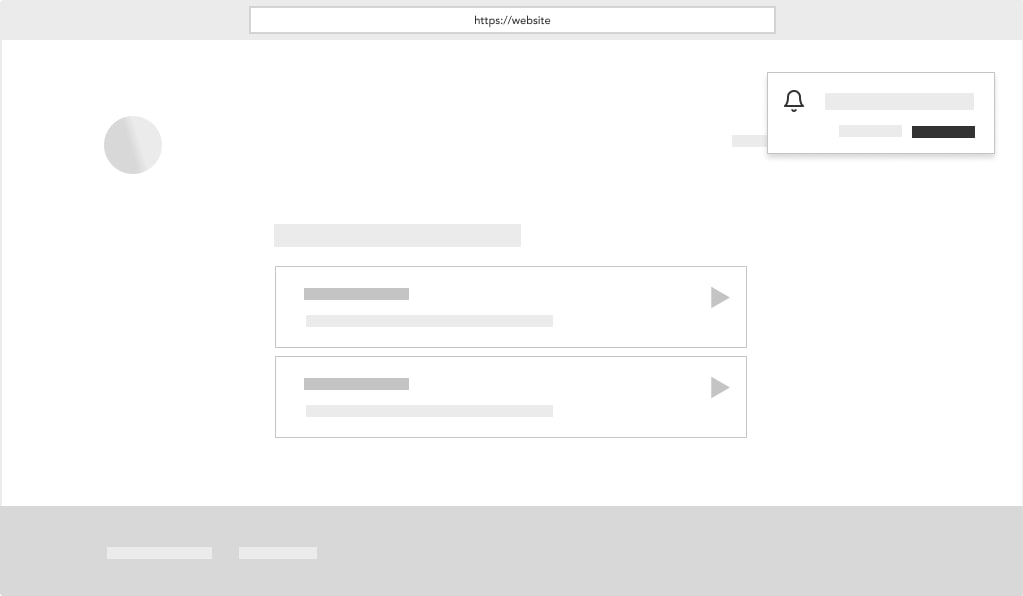
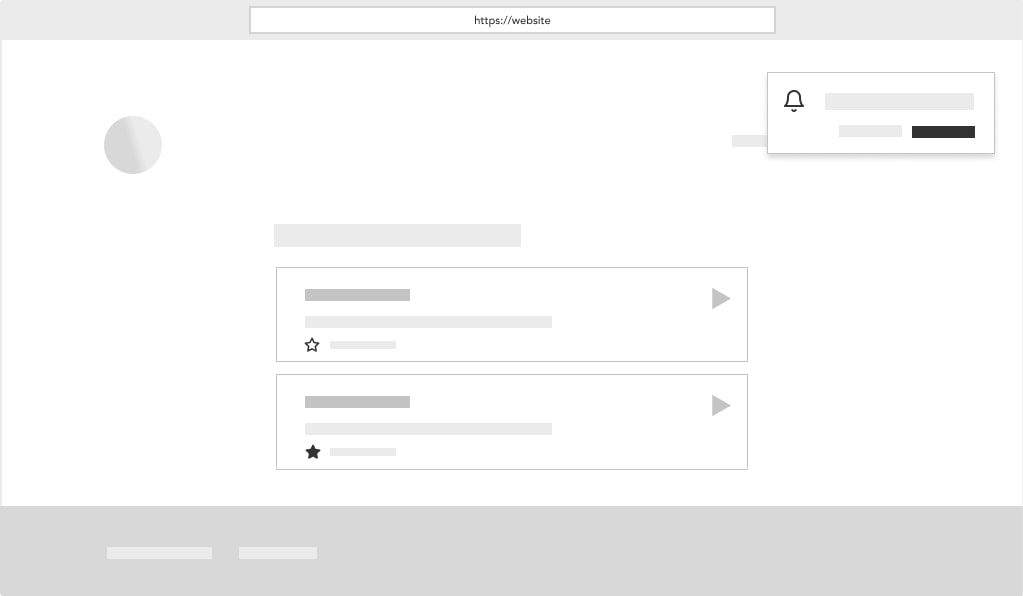
feat: Offline page content

diff --git a/src/custom-offline-page.md b/src/custom-offline-page.md
@@ -134,7 +134,7 @@ const getPage = event => {
 ```
 
 The website will now serve the custom offline page based on if the user has a
-network connection. Take a look at <a href="https://glitch.com/edit/#!/custom-offline-page" target="_blank" rel="noopener noreferrer">the full working version of this code</a>
+network connection. Take a look at <a href="https://glitch.com/edit/#!/custom-offline-page" target="_blank" rel="noopener noreferrer">the working version of this code</a>
 or the <a href="https://custom-offline-page.glitch.me/" target="_blank" rel="noopener noreferrer">demo</a>
 to see the offline page in action.
 
@@ -142,8 +142,8 @@ to see the offline page in action.
 
 So far we've got a working, but relatively empty, offline page. Compared to relying
 on the default browser offline page It's already an improvement, adding a general
-"you are offline" message and leaving it there may be tempting. But doesn't this
-feel like a wasted touch-point?
+"you are offline" message and leaving it there may be tempting. But this
+could be a wasted touch-point.
 
 Offline pages are different to other error pages because people will be stuck
 on the page until they give up waiting or their network connection is restored.
@@ -158,8 +158,8 @@ A go-to approach for optimising any app and providing better support for unrelia
 network connections in general is to keep a copy of the websites "shell" in the cache.
 
 Nearly all websites have a few consistent layout elements across all pages like a
-header, footer, maybe a page container or sidebar. If the necessary assets are
-added to the cache to display these elements can be used to load the page
+header, footer, maybe a page container or sidebar. If the styles and assets used
+in these elements are added to the cache they can be used to display the page
 layout instantly on repeat visits.
 
 Including these elements on the custom offline page handles the situation
@@ -174,8 +174,9 @@ page.
 
 ![Articles available to view offline](/assets/custom-offline-page/offline-posts.jpg)
 
-Popularised by the Chrome dinosaur game, A growing number of websites have
-approached this by presenting some type of game to interact with whilst on the page.
+Popularised by the Chrome dinosaur game, A growing number of websites have taken
+this literally by presenting some type of game to interact with whilst on the page
+completely separate to the rest of the websites content.
 
 While this is fun, in many cases it's unrealistic to expect that it would be part
 of a production projects budget. It's also more than likely not the most valuable
@@ -188,9 +189,33 @@ For example, websites with a blog as primary content could dig into the cache to
 pull up and display the articles that readers had previously viewed or marked for
 later reading.
 
+### Handle page actions
+
+![Offline actions](/assets/custom-offline-page/offline-actions.jpg)
+
+If the page contains interactive elements the user would expect these to work
+normally, unless they're given visual indication otherwise.
+
+Popular web apps like <a href="https://trello.com/" target="_blank" rel="noopener noreferrer">Trello</a>
+will sync a users actions once they're back online. This is made possible through <a href="https://developers.google.com/web/updates/2015/12/background-sync" target="_blank" rel="noopener noreferrer">background sync</a>
+or offline compatible databases like <a href="https://developer.mozilla.org/en-US/docs/Web/API/IndexedDB_API/Basic_Concepts_Behind_IndexedDB" target="_blank" rel="noopener noreferrer">IndexedDB</a>.
+
+If implementing this type of sync is out of scope then interactive elements of
+the page that require a network connection will need to be disabled. It should
+be made obvious that users can't interact with them without a network connection.
+
 ### Notify on connection recovery
 
 ![Connection recovered notification](/assets/custom-offline-page/notify-offline.jpg)
 
-- Offer to send users what they were looking for once the connection is restored
-- React when the network connection returns
+Even with something to do, many won't wait for the network connection to return.
+Rather than ignoring this fact, the offline page could be taken to the next level
+by embracing this and offering to notify users with the content they're looking
+for once their connection is restored.
+
+A good example of this is how Google handles dropped connections during a
+search. Google will remember the search and send a <a href="https://developer.mozilla.org/en-US/docs/Web/API/Push_API" target="_blank" rel="noopener noreferrer">push notification</a>
+when the search results are ready to view.
+
+This let's the user get on with whatever else they want to do and provides an
+easy way to pick up where they left off once the connection has been recovered.
